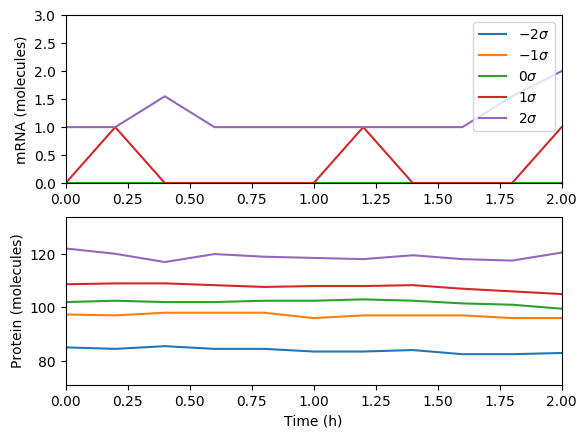
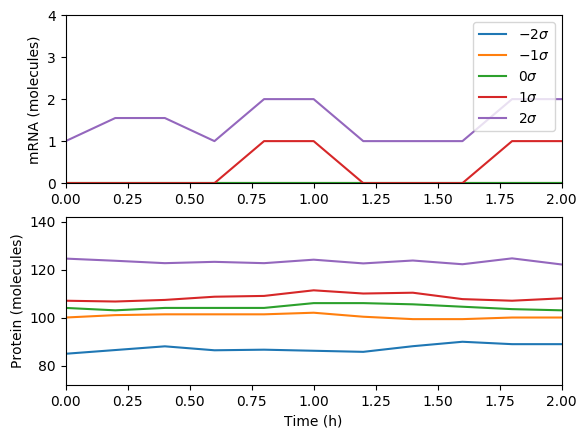
adding plot of 1 trajectory

diff --git a/intro_to_wc_modeling/cell_modeling/simulation/stochastic_exercises.py b/intro_to_wc_modeling/cell_modeling/simulation/stochastic_exercises.py
@@ -834,7 +834,10 @@ class SsaSimulation(object):
         n_trajectories = m.shape[1]
 
         for i_trajectory in range(n_trajectories):
-            gray = 0.5 + 0.5 * i_trajectory / (n_trajectories - 1)
+            if n_trajectories == 1:
+                gray = 0.
+            else:
+                gray = 0.5 - 0.5 * i_trajectory / (n_trajectories - 1)
             axes[0].plot(t, m[:, i_trajectory], color=(gray, gray, gray))
             axes[1].plot(t, n[:, i_trajectory], color=(gray, gray, gray))
 
@@ -957,19 +960,32 @@ def trajectory_exercise():
     sim.simulate
 
     ##########################################################
-    # B. Simulate several trajectories
+    # B.i Simulate one trajectory
     ##########################################################
     # seed random number generator
     numpy.random.seed(0)
 
     # simulate
-    n_trajectories = 50
-    t, m, n = sim.simulate_ensemble(n_trajectories, t_end=2., t_step=0.2)
+    t, m, n = sim.simulate_ensemble(1, t_end=5., t_step=0.001)
 
     # plot
     fig = sim.plot_trajectories(t, m, n)
     # fig.show()
     filename = os.path.join(OUT_DIR, 'stochastic-exercises-trajectory-simulation.png')
+    fig.savefig(filename, transparent=True, bbox_inches='tight')
+    matplotlib.pyplot.close(fig)
+
+    ##########################################################
+    # B.i Simulate several trajectories
+    ##########################################################
+    # simulate
+    n_trajectories = 50
+    t, m, n = sim.simulate_ensemble(n_trajectories, t_end=2., t_step=0.2)    
+
+    # plot
+    fig = sim.plot_trajectories(t, m, n)
+    # fig.show()
+    filename = os.path.join(OUT_DIR, 'stochastic-exercises-trajectory-simulations.png')
     fig.savefig(filename, transparent=True, bbox_inches='tight')
     matplotlib.pyplot.close(fig)
 
